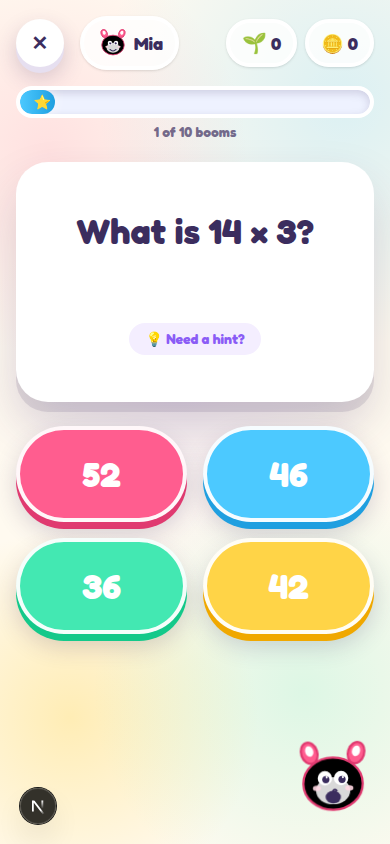
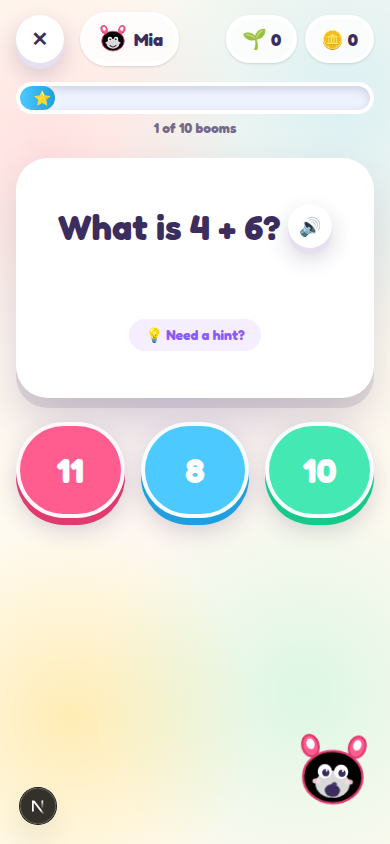
Retake screenshots and remove localhost link from README

diff --git a/README.md b/README.md
@@ -49,7 +49,7 @@ npm install
 npm run dev
 ```
 
-Open [http://localhost:3000](http://localhost:3000). Pick or create a player, choose a topic, and start popping!
+Open the app, pick or create a player, choose a topic, and start popping!
 
 ### Scripts
 
